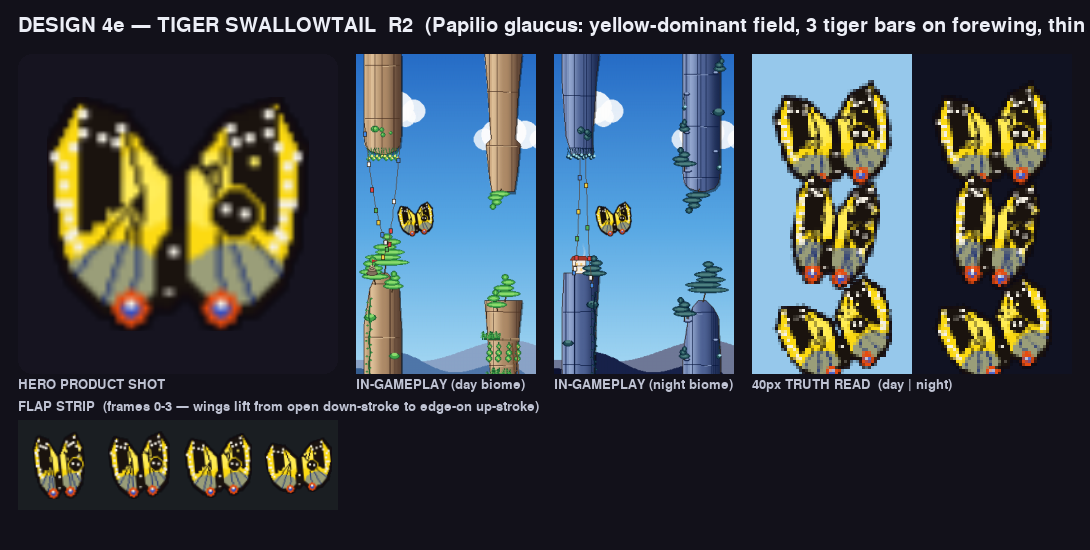
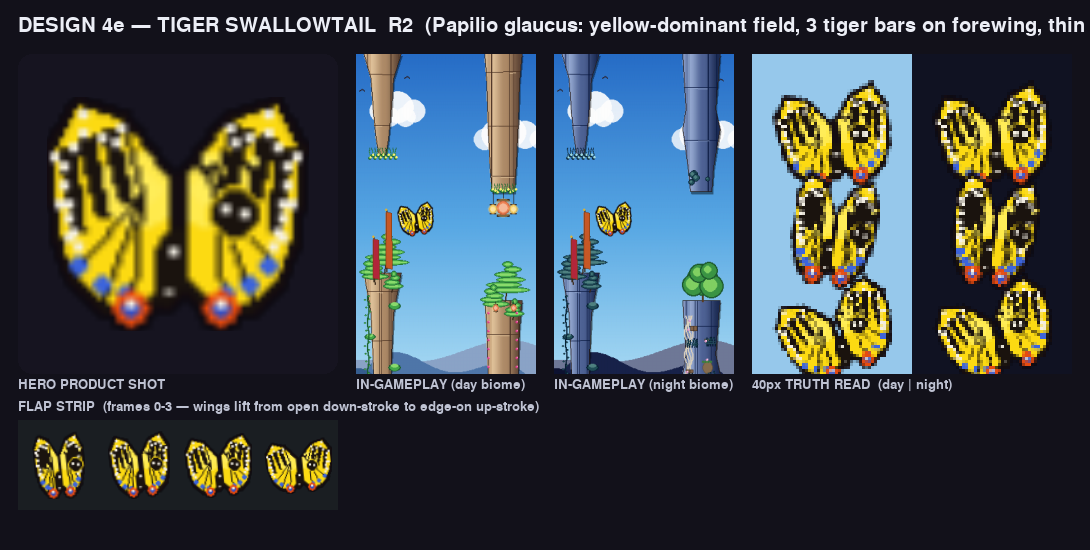
bee/monarch-variants design_4e TIGER SWALLOWTAIL R2
Claude-Session: https://claude.ai/code/session_01K6KPJsdtoYoDR2za2Jqnmo

diff --git a/tools/bee_candidates/design_4e.py b/tools/bee_candidates/design_4e.py
@@ -81,29 +81,31 @@ def _draw_wing(surf, side, spread, nx):
     # roughly perpendicular to the leading edge and tapering toward the trailing
     # side (the swallowtail chevron read). They overlay the yellow field and
     # veins, spaced from the wing root out toward the apex.
-    lead0, apex = fill[1], fill[2]                    # forewing leading edge span
+    # Leading anchors span the whole leading edge (rise→apex→shoulder) so the
+    # three bars stay spread and parallel instead of converging into one black
+    # blob near the apex; inner anchors sweep from the root toward the notch for
+    # the chevron. The wide top span guarantees the yellow gaps stay at least as
+    # wide as each bar.
+    lead0, shoulder = fill[1], fill[3]
     tail = fill[5]                                    # fore/hind notch (inner end)
-    for t in (0.34, 0.55, 0.76):
-        # Anchor on the leading edge, sweep in toward the notch for the chevron.
-        # Bars sit at 0.34/0.55/0.76 so the yellow gaps between them are at least
-        # as wide as the bars themselves — the field still reads yellow-first.
-        lx = lead0[0] + (apex[0] - lead0[0]) * t
-        ly = lead0[1] + (apex[1] - lead0[1]) * t
+    for t in (0.20, 0.50, 0.80):
+        lx = lead0[0] + (shoulder[0] - lead0[0]) * t
+        ly = lead0[1] + (shoulder[1] - lead0[1]) * t
         ix = root[0] + (tail[0] - root[0]) * t
         iy = root[1] + (tail[1] - root[1]) * t
-        _taper_bar(surf, INK, (lx, ly), (ix, iy), 4.5, 2.0)
+        _taper_bar(surf, INK, (lx, ly), (ix, iy), 3.2, 1.8)
 
-    # Blue shimmer on the hindwing lobe — a tight opaque-ish patch just inboard of
-    # the eyespot, alpha-blended (not additive) so it reads as ACTUAL blue rather
-    # than washing the yellow toward white the way an additive pass does. It
-    # straddles the lobe near the dark margin, where blue scales sit on the real
-    # bug.
+    # Blue lunules on the hindwing margin — a row of small SOLID blue scale-dots
+    # just inboard of the dark margin between the outer hindwing and the tail.
+    # Solid blue reads unmistakably blue; an alpha wash over the sulfur field
+    # only mudded to gray-green (yellow+blue), so the shimmer is inked as opaque
+    # crescents instead, which is also how the real bug carries its blue scales.
     shim = _new()
-    lobe, spot = fill[7], fill[8]
-    bx = (lobe[0] + spot[0]) / 2
-    by = (lobe[1] + spot[1]) / 2
-    blue_c = (bx + (fcx - bx) * 0.18, by + (fcy - by) * 0.18)
-    _aaellipse(shim, (*BLUE, 130), blue_c, 12, 10)
+    for j in (6, 7, 8):
+        mp = fill[j]
+        bx = mp[0] + (fcx - mp[0]) * 0.16
+        by = mp[1] + (fcy - mp[1]) * 0.16
+        _aaellipse(shim, (*BLUE, 255), (bx, by), 2.2, 2.0)
     shim.blit(_wing_mask(fill), (0, 0), special_flags=pygame.BLEND_RGBA_MIN)
     surf.blit(shim, (0, 0))
 
